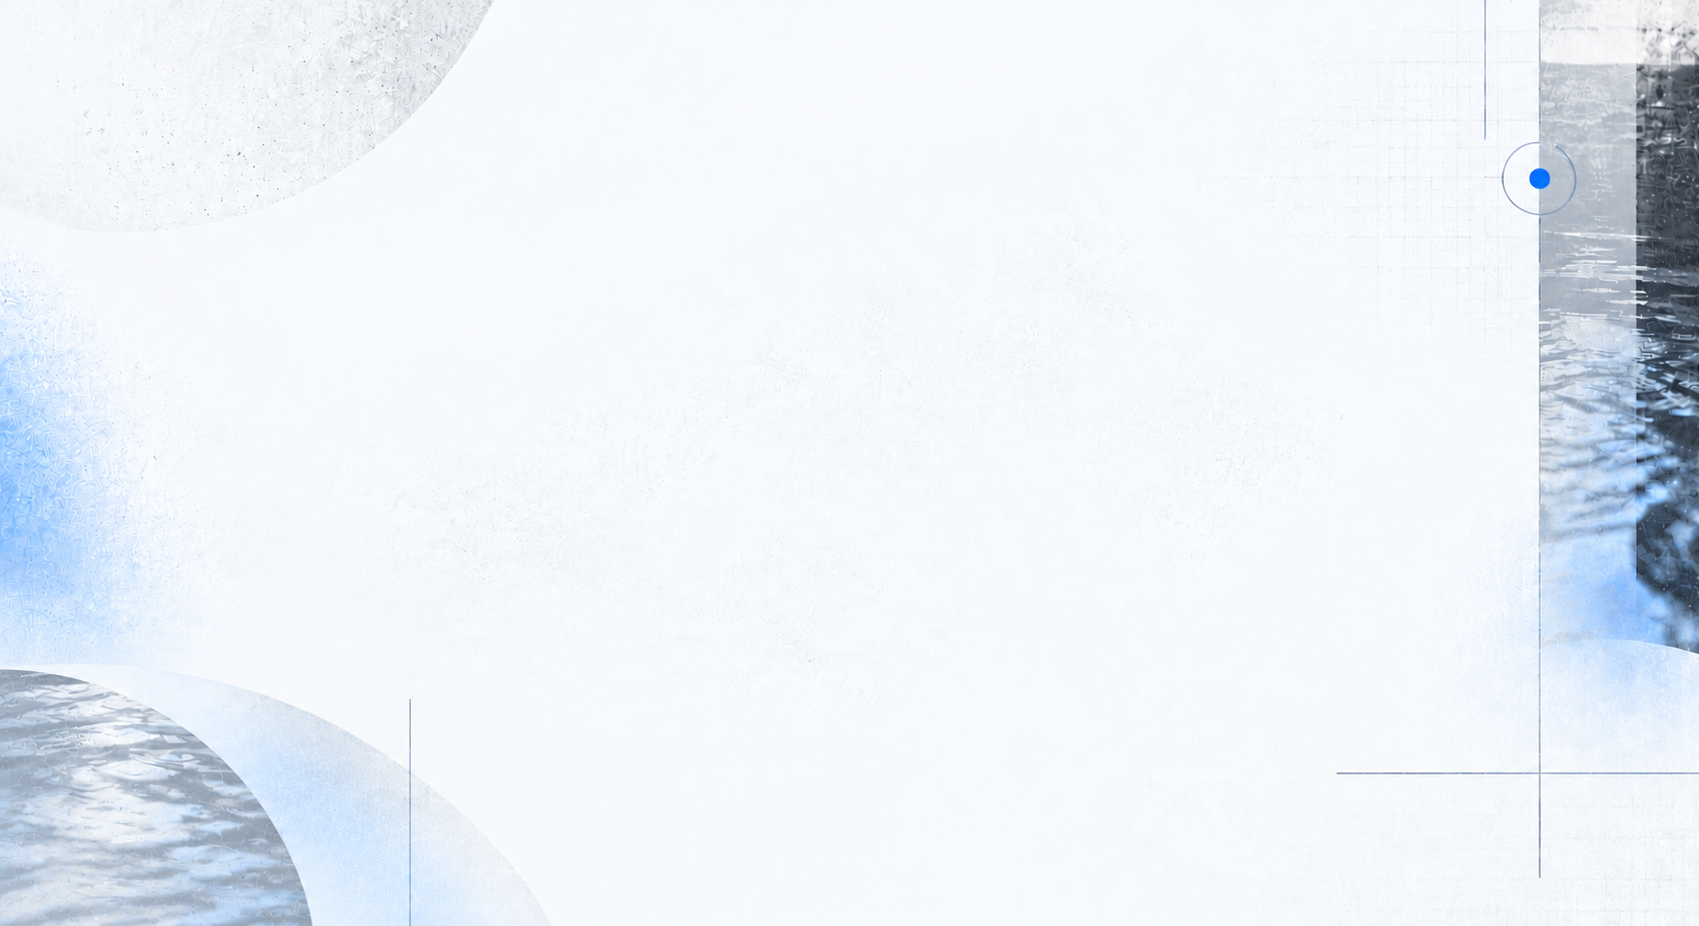
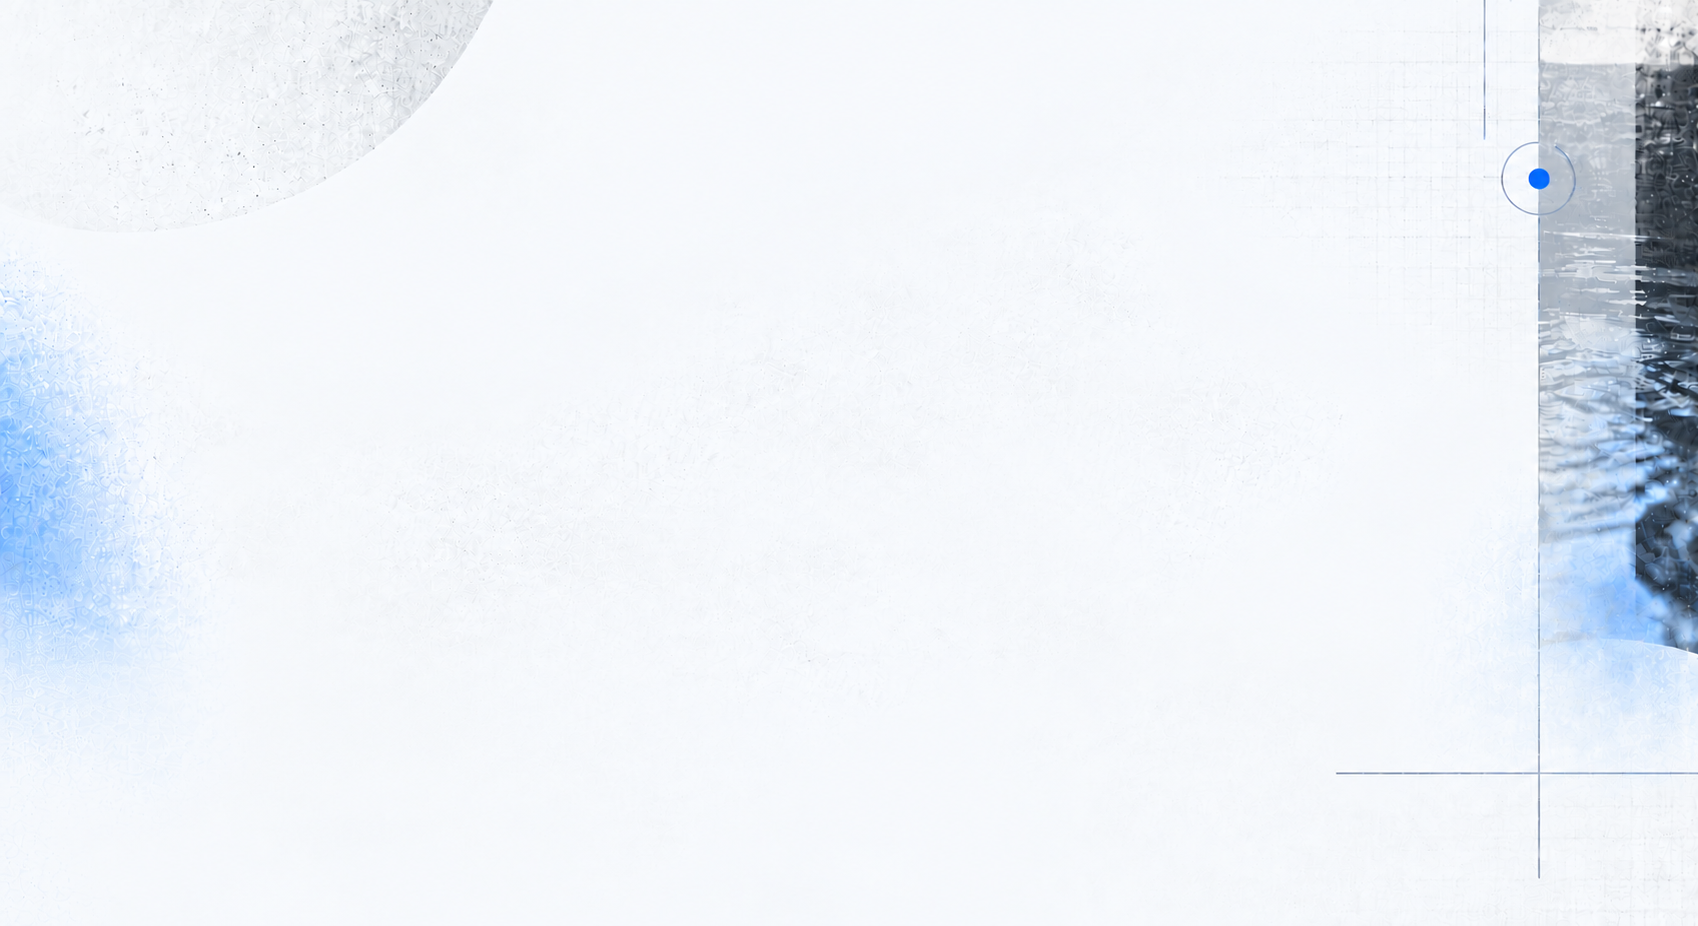
update demo background

Changed region(s): [[0.0, 0.7257, 0.2809, 1.0], [0.9676, 0.3629, 0.9988, 0.3931]]

diff --git a/src/components/DemoLayout.jsx b/src/components/DemoLayout.jsx
@@ -28,10 +28,12 @@ export default function DemoLayout({ children }) {
           </p>
 
           <a
-            className="demo-case-study"
             href="https://shining-growth-724562.framer.app/sewerscope"
-            onClick={(e) => e.preventDefault()}
+            target="_blank"
+            rel="noopener noreferrer"
+            className="demo-case-study-link"
           >
+            <br/>
             View the case study ↗
           </a>
         </div>
@@ -64,7 +66,7 @@ export default function DemoLayout({ children }) {
         )}
 
         <div className="demo-guide-content">
-          <h2>Functionalities to try</h2>
+          <h2>Functionalities to test</h2>
 
 <div className="demo-guide-divider"></div>
 
